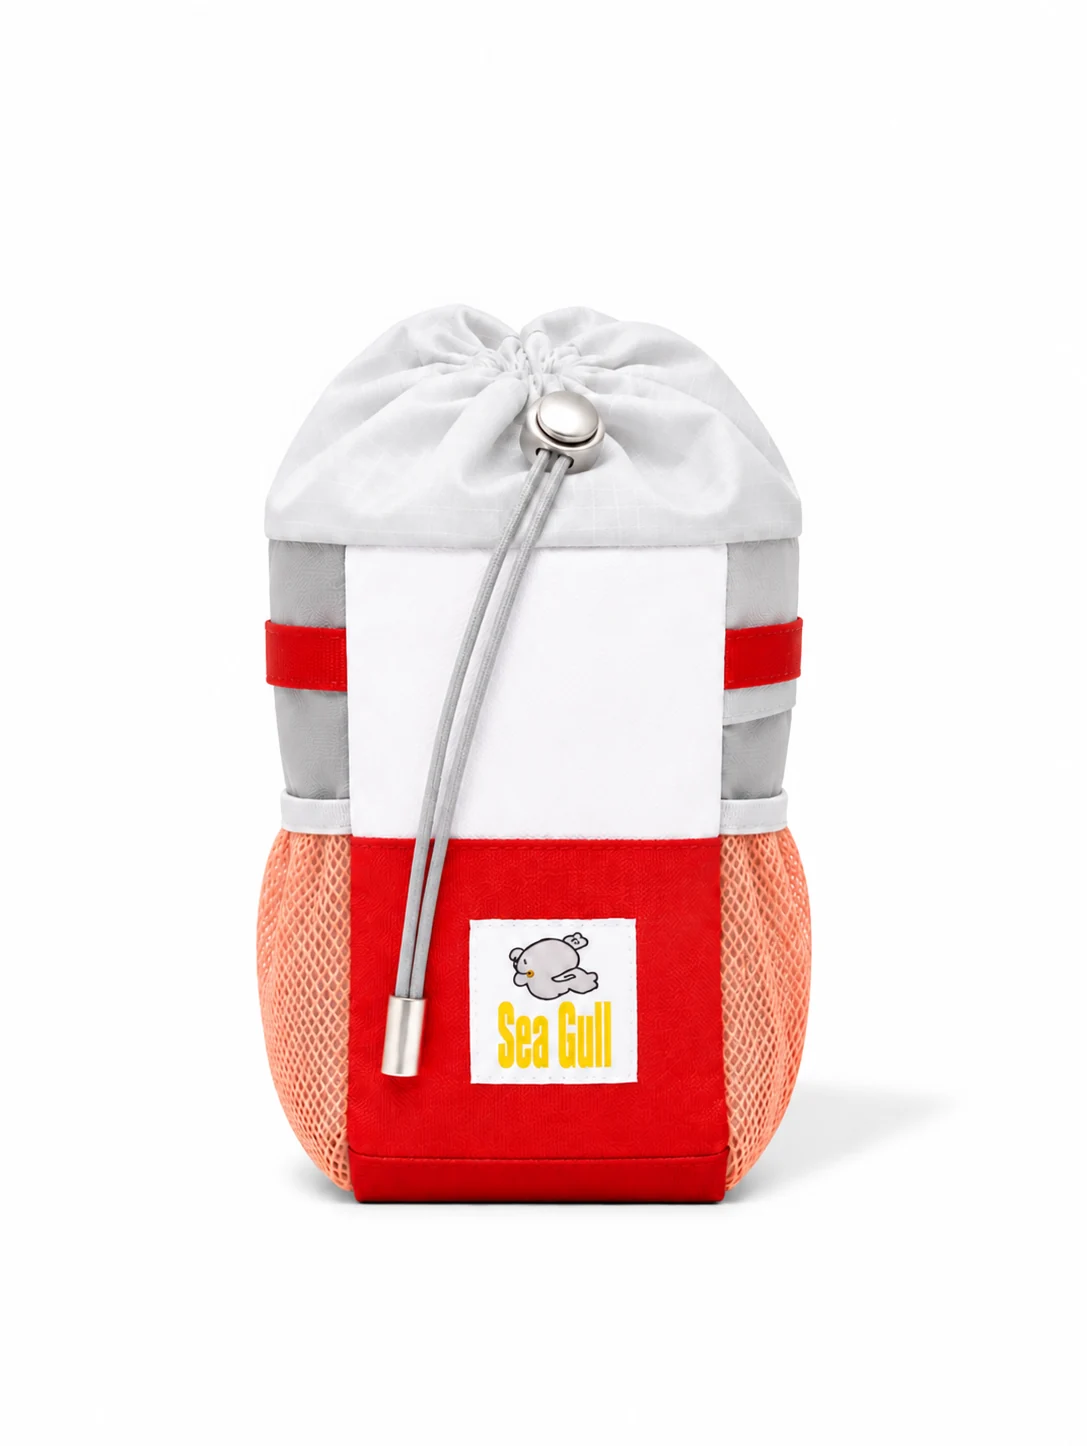
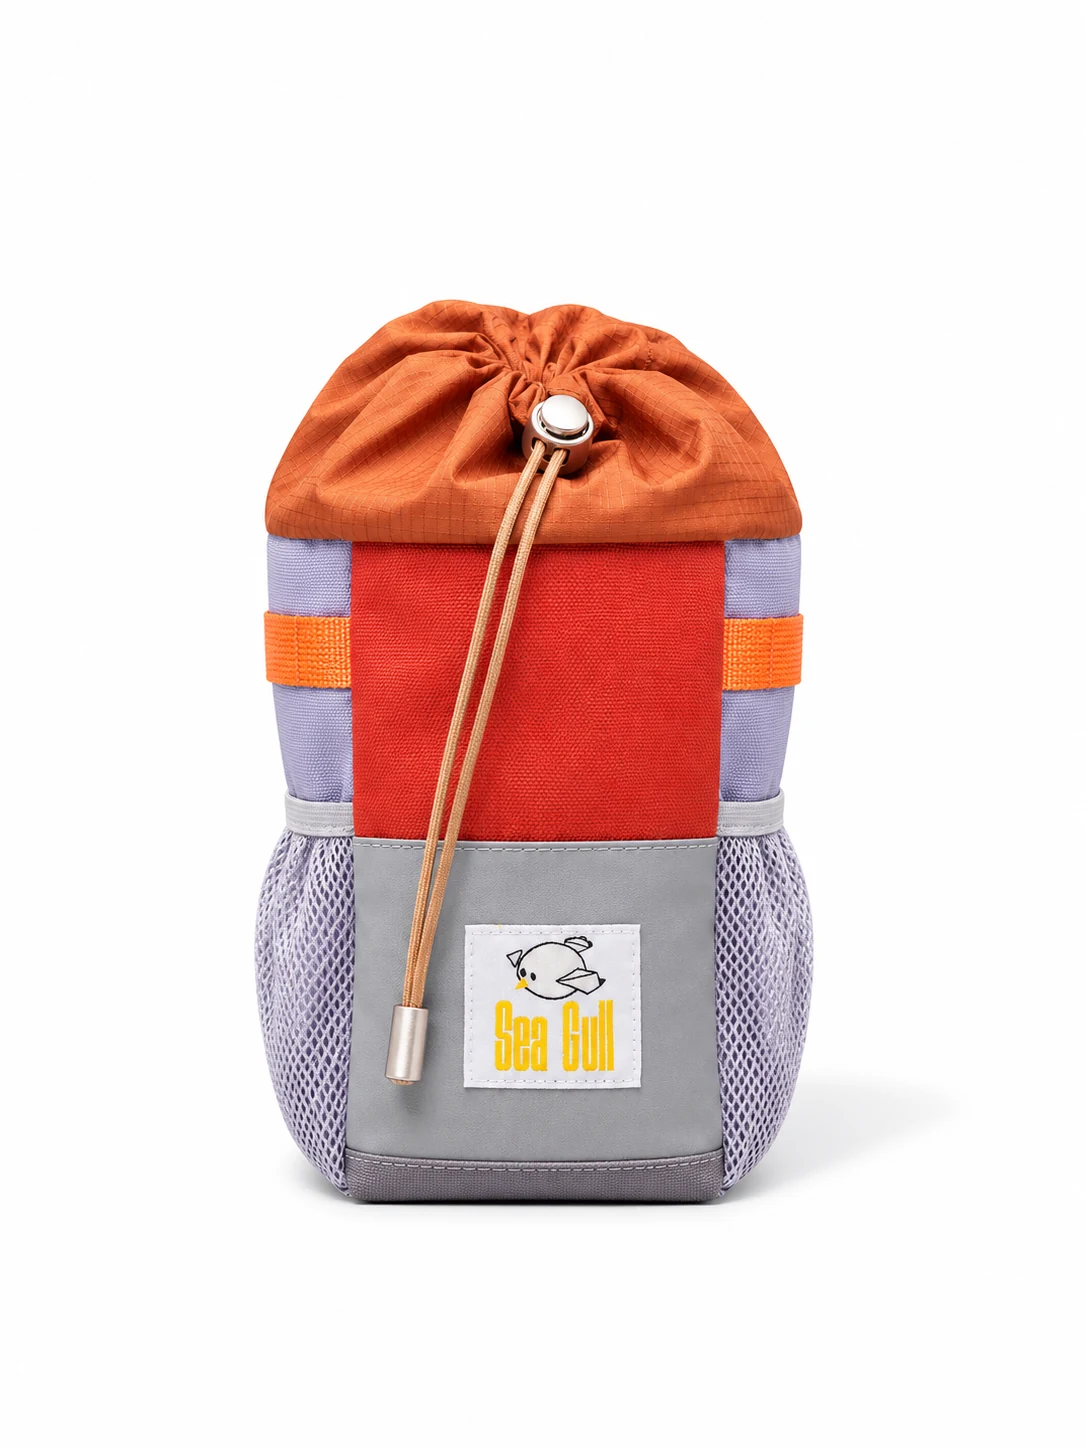
Refresh Bike Cover and handlebar bag galleries

Changed region(s): [[0.2127, 0.1867, 0.7597, 0.8402]]

diff --git a/data/products.ts b/data/products.ts
@@ -957,6 +957,10 @@ export const products: Product[] = [
     "priceLabel": "30",
     "badge": "5 Variants",
     "images": [
+      "/products/bike-cover-studio.webp",
+      "/products/bike-cover-detail-logo.webp",
+      "/products/bike-cover-detail-white.webp",
+      "/products/bike-cover-detail-zip.webp",
       "/products/optimized/sgl-product-022.webp",
       "/products/optimized/sgl-product-023.webp",
       "/products/optimized/sgl-product-024.webp",
@@ -1599,6 +1603,7 @@ export const products: Product[] = [
     "priceLabel": "50",
     "badge": "Purple",
     "images": [
+      "/products/handlebar-bag-purple-studio.webp",
       "/products/optimized/sgl-product-065.webp",
       "/products/optimized/sgl-product-066.webp",
       "/products/optimized/sgl-product-067.webp",
@@ -1621,7 +1626,7 @@ export const products: Product[] = [
         ],
         "price": 50.0,
         "inventory": 55,
-        "image": "/products/optimized/sgl-product-068.webp"
+        "image": "/products/handlebar-bag-purple-studio.webp"
       }
     ],
     "temporaryShopifyUrl": "https://581ff0-3.myshopify.com/products/handlebar-bags-purple",
@@ -1679,6 +1684,7 @@ export const products: Product[] = [
     "priceLabel": "50",
     "badge": "Red",
     "images": [
+      "/products/handlebar-bag-red-studio.webp",
       "/products/optimized/sgl-product-070.webp",
       "/products/optimized/sgl-product-071.webp",
       "/products/optimized/sgl-product-072.webp",
@@ -1701,7 +1707,7 @@ export const products: Product[] = [
         ],
         "price": 50.0,
         "inventory": 55,
-        "image": "/products/optimized/sgl-product-070.webp"
+        "image": "/products/handlebar-bag-red-studio.webp"
       }
     ],
     "temporaryShopifyUrl": "https://581ff0-3.myshopify.com/products/handleber-bags-red",

diff --git a/tests/products.test.ts b/tests/products.test.ts
@@ -63,6 +63,8 @@ test("new handlebar bag colourways have independent links and approved imagery",
   }
   assert.equal(getProduct("handlebar-bags")?.images[0], "/products/handlebar-bag-black-studio.webp");
   assert.equal(getProduct("handlebar-bags-reflect-grey")?.images[0], "/products/handlebar-bag-grey-orange-studio.webp");
+  assert.equal(getProduct("handlebar-bags-purple")?.images[0], "/products/handlebar-bag-purple-studio.webp");
+  assert.equal(getProduct("handleber-bags-red")?.images[0], "/products/handlebar-bag-red-studio.webp");
 });
 
 test("newly supplied catalogue images are used as product primary images", () => {
@@ -73,4 +75,14 @@ test("newly supplied catalogue images are used as product primary images", () =>
   const toiletryBag = products.find(product => product.slug === "toiletry-bag")!;
   assert.equal(toiletryBag.images[0], "/products/toiletry-bag-orange-studio.webp");
   assert.equal(getProduct("toiletry-bag"), undefined);
+});
+
+test("bike cover uses the approved studio primary image and new detail gallery", () => {
+  const bikeCover = getProduct("bike-cover")!;
+  assert.deepEqual(bikeCover.images.slice(0, 4), [
+    "/products/bike-cover-studio.webp",
+    "/products/bike-cover-detail-logo.webp",
+    "/products/bike-cover-detail-white.webp",
+    "/products/bike-cover-detail-zip.webp"
+  ]);
 });
